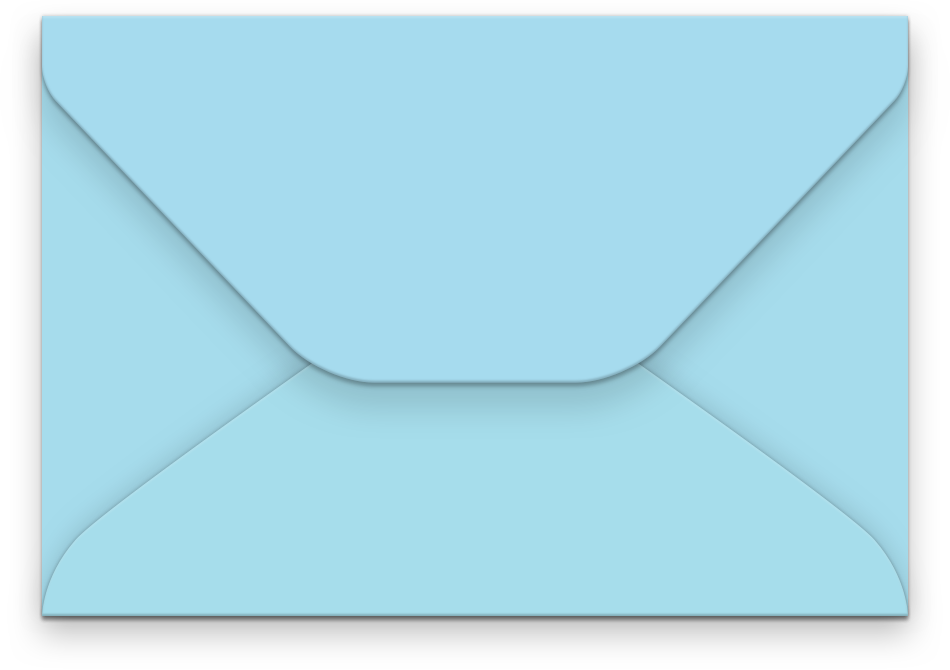
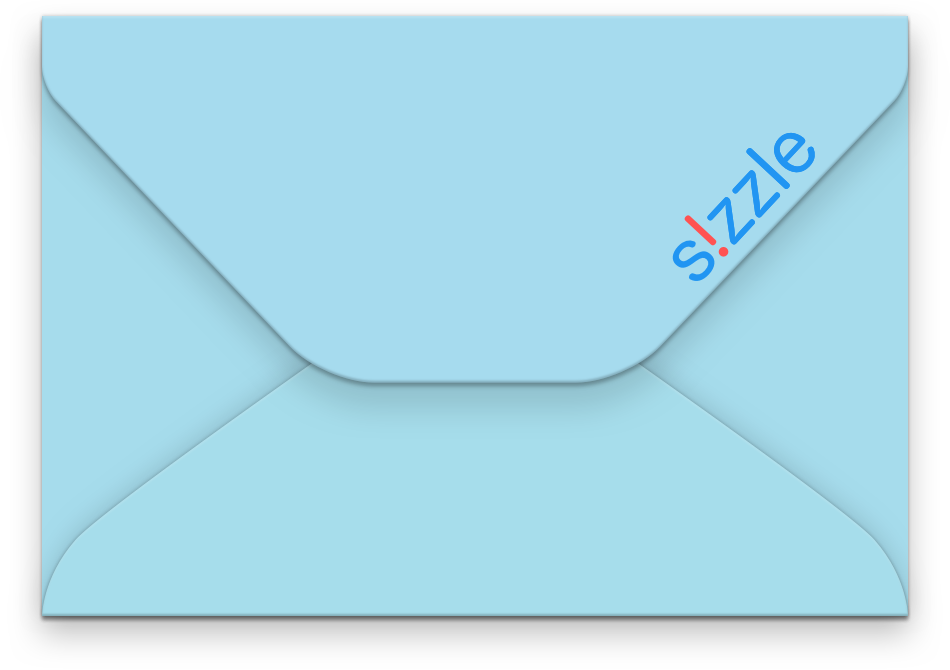
more new images for #667

Changed region(s): [[0.7021, 0.1791, 0.8547, 0.4179]]

diff --git a/lp/sizzle1.php b/lp/sizzle1.php
@@ -47,14 +47,14 @@ include __DIR__.'/../header.php';
     #sizzle-envelope {
       position: relative;
       top: 0;
-      left: 0;
+      left: 50px;
       width: 600px;
     }
     #sizzle-enveloped-token {
       position: absolute;
-      top: 40px;
-      left: 50px;
-      width: 600px;
+      top: 60px;
+      left: 0px;
+      width: 640px;
     }
     #sell-the-job {
       background-image: linear-gradient(90deg, rgb(23,42,111), rgb(22,215,222));
